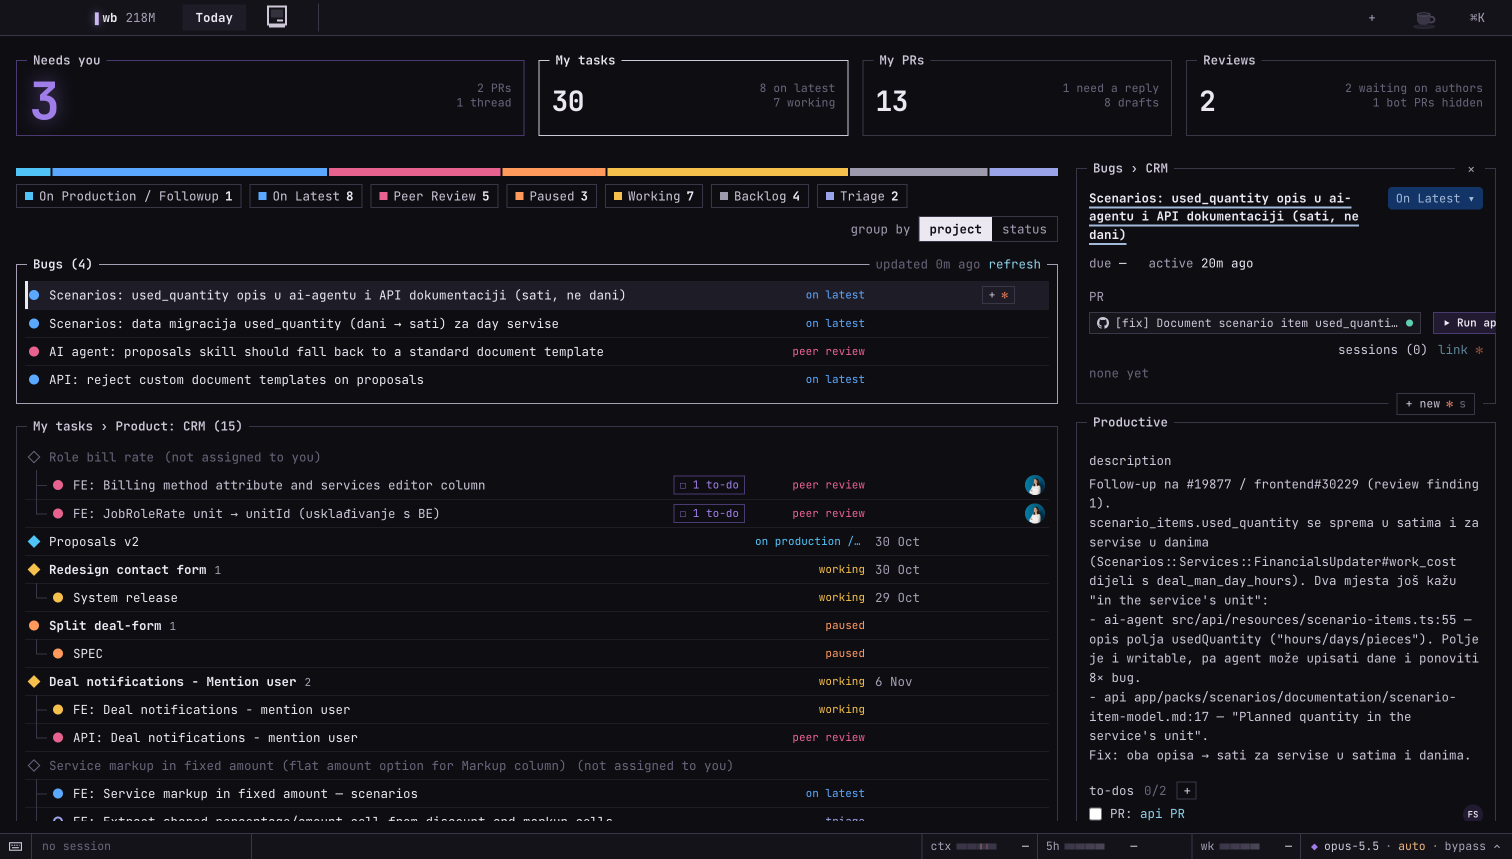
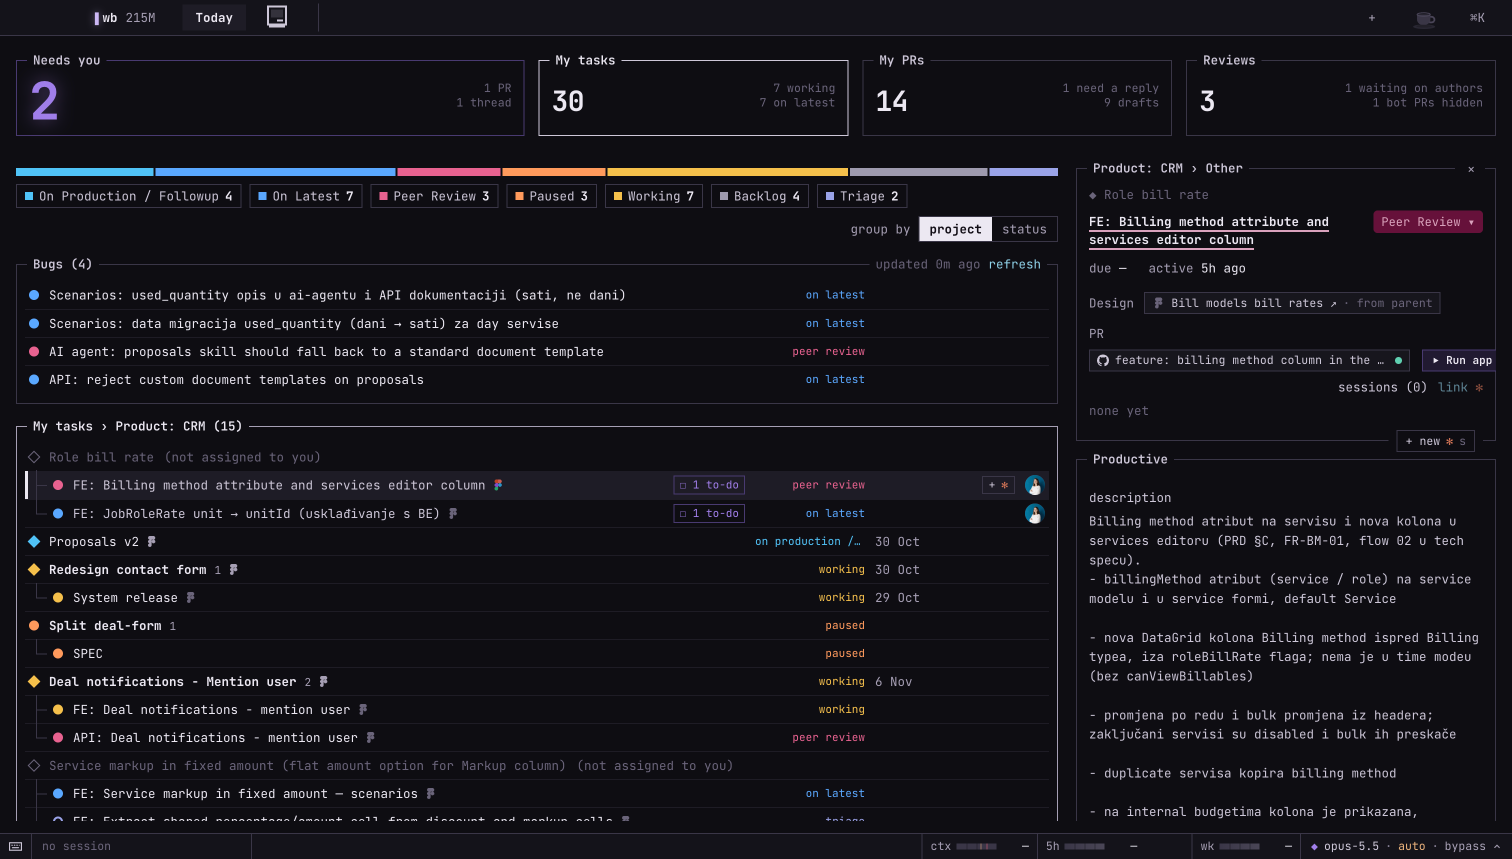
Figma link on tasks: a grey Figma mark after the title (colour on hover and on the selected row; fainter when inherited) from the task's Figma field or description, else the nearest ancestor's. In My tasks, the workstream tree, after the session bar's task button, and a Design row on the task card. 

diff --git a/src/main/productive/tasks.ts b/src/main/productive/tasks.ts
@@ -1,4 +1,4 @@
-import { mentionToken, readMentions, type Person, type Task, type TaskDetail, type WorkflowStatus } from '@shared/tasks'
+import { figmaOf, inheritDesign, mentionToken, readMentions, type Person, type Task, type TaskDetail, type WorkflowStatus } from '@shared/tasks'
 import type { Repo } from '../store/repo'
 import { commentHtml, encodeParams, htmlText, Productive, type JsonApiResource } from './client'
 
@@ -60,7 +60,7 @@ export class TasksPoller {
         const id = t.relationships?.task?.data?.id
         if (id) myTodos.set(id, (myTodos.get(id) ?? 0) + 1)
       }
-      this.tasks = normalize(data, included, account.orgSlug).map((t) => (t.assignedTo && t.assignedTo.id !== account.personId && myTodos.has(t.id) ? { ...t, myTodos: myTodos.get(t.id) } : t))
+      this.tasks = (await this.withDesign(normalize(data, included, account.orgSlug))).map((t) => (t.assignedTo && t.assignedTo.id !== account.personId && myTodos.has(t.id) ? { ...t, myTodos: myTodos.get(t.id) } : t))
       this.fetchedAt = Date.now()
       this.error = null
       this.repo.setSetting('tasks:cache', { tasks: this.tasks, at: this.fetchedAt })
@@ -70,6 +70,35 @@ export class TasksPoller {
       this.loading = false
       this.changed()
     }
+  }
+
+  /** Ancestors read for design links: id → title, parent, own Figma link. Refreshed when older than 10 minutes. */
+  private nodes = new Map<string, { title: string; parentId: string | null; own: string | null; at: number }>()
+
+  /**
+   * Tasks without a Figma link of their own take the nearest ancestor's. Ancestors not among `tasks` (or
+   * included without their own parent, like context headers) are read by id, a level per request.
+   */
+  async withDesign<T extends Task>(tasks: T[]): Promise<T[]> {
+    const fresh = Date.now() - 10 * 60_000
+    const nodes = new Map<string, { title: string; parentId: string | null; own: string | null }>()
+    for (const t of tasks) if (!t.context) nodes.set(t.id, { title: t.title, parentId: t.parentId, own: t.design?.from === null ? t.design.url : null })
+    let want = [...new Set(tasks.filter((t) => !t.design && t.parentId).map((t) => t.parentId!))]
+    for (let level = 0; want.length && level < 6; level++) {
+      const missing = want.filter((id) => !nodes.has(id) && !((this.nodes.get(id)?.at ?? 0) > fresh))
+      if (missing.length) {
+        const { api } = await this.client()
+        for (let i = 0; i < missing.length; i += 100) {
+          const { data } = await api.getAll('/tasks', encodeParams('filter', { id: missing.slice(i, i + 100).join(',') }))
+          for (const t of data)
+            this.nodes.set(t.id, { title: String(t.attributes.title ?? ''), parentId: t.relationships?.parent_task?.data?.id ?? null, own: figmaOf(t.attributes.custom_fields, t.attributes.description), at: Date.now() })
+        }
+      }
+      for (const id of want) if (!nodes.has(id) && this.nodes.has(id)) nodes.set(id, this.nodes.get(id)!)
+      // Climb only from ancestors that have no link themselves.
+      want = [...new Set(want.map((id) => nodes.get(id)).filter((n) => n && !n.own && n.parentId).map((n) => n!.parentId!))]
+    }
+    return inheritDesign(tasks, nodes)
   }
 
   /** The client with the org set, for callers outside the poll (drafts). */
@@ -101,7 +130,7 @@ export class TasksPoller {
       )
     }
     return {
-      task: taskMapper(included, orgSlug)(data, false),
+      task: (await this.withDesign([taskMapper(included, orgSlug)(data, false)]))[0]!,
       description: readMentions(htmlText(String(data.attributes.description ?? ''))).body,
       statusId: status?.id ?? '',
       statuses: (workflowId && this.statuses.get(workflowId)) || [],
@@ -220,6 +249,7 @@ export function taskMapper(included: JsonApiResource[], orgSlug: string): (t: Js
     const list = inc.get(`task_lists:${rel(t, 'task_list')?.id}`)
     const status = inc.get(`workflow_statuses:${rel(t, 'workflow_status')?.id}`)
     const who = inc.get(`people:${rel(t, 'assignee')?.id}`)
+    const figma = figmaOf(t.attributes.custom_fields, t.attributes.description)
     return {
       id: t.id,
       number: attr<number>(t, 'task_number') ?? null,
@@ -240,6 +270,7 @@ export function taskMapper(included: JsonApiResource[], orgSlug: string): (t: Js
       url: `https://app.productive.io/${orgSlug}/tasks/${t.id}`,
       context,
       assignedTo: who ? { id: who.id, name: personName(who), avatarUrl: (who.attributes.avatar_url as string | null) ?? null } : null,
+      design: figma ? { url: figma, from: null } : null,
     }
   }
 }

diff --git a/src/renderer/src/styles.css b/src/renderer/src/styles.css
@@ -82,6 +82,12 @@ button { font: inherit; color: inherit; }
 .local-icon { display: block; flex-shrink: 0; }
 .local-icon .li-off { fill: color-mix(in srgb, var(--text-3) 22%, var(--chrome)); }
 .place-bang { position: absolute; right: -7px; top: -7px; width: 15px; height: 15px; border-radius: 50%; background: var(--bad); color: var(--on-accent); font-size: 10.5px; font-weight: 800; line-height: 15px; text-align: center; box-shadow: 0 0 0 2px var(--chrome); }
+/* Figma mark (FigmaMark.tsx): grey at rest, its own colours on hover and on a selected row. */
+.figma-mark { --fm: var(--text-3); --fm1: var(--fm); --fm2: var(--fm); --fm3: var(--fm); --fm4: var(--fm); --fm5: var(--fm); display: inline-flex; align-items: center; margin-left: 6px; padding: 2px 3px; cursor: pointer; flex-shrink: 0; vertical-align: -1px; }
+.figma-chip .figma-mark, .sbar-figma .figma-mark { margin-left: 0; }
+.figma-mark.inherited { --fm: var(--faint); }
+.figma-mark:hover, .sel .figma-mark, .on .figma-mark { --fm1: #f24e1e; --fm2: #ff7262; --fm3: #a259ff; --fm4: #1abcfe; --fm5: #0acf83; }
+.figma-mark.inherited:hover, .sel .figma-mark.inherited { opacity: 0.75; }
 .place-pile.low { color: var(--warn); border-color: var(--warn); }
 .place-pile { position: absolute; right: -9px; bottom: -5px; min-width: 15px; height: 14px; padding: 0 3px; background: var(--raised); border: 1px solid var(--line-heavy); color: var(--text-3); font-size: 9.5px; line-height: 12px; text-align: center; }
 .place-bang-tip { display: none; position: absolute; left: 0; top: 22px; z-index: 50; width: 300px; padding: 10px 12px; background: var(--popover); border: 1px solid var(--line-heavy); box-shadow: 0 18px 44px var(--shadow); color: var(--text-2); font-size: 12px; font-weight: 400; line-height: 1.55; text-align: left; white-space: normal; }
@@ -1222,6 +1228,10 @@ button.run-chip { cursor: pointer; font: inherit; font-size: 12px; }
 /* Task peek: the PR row with the sessions header across from it; + new ✻ and ⏎ continue sit on the box's bottom edge. */
 .peek-links { display: flex; flex-wrap: wrap; align-items: center; gap: 6px 10px; margin-top: 10px; color: var(--text-2); }
 .peek-links .k { color: var(--text-3); }
+.peek-design + .peek-links { margin-top: 6px; }
+.figma-chip { max-width: 100%; overflow: hidden; white-space: nowrap; text-overflow: ellipsis; color: var(--text-2); }
+.figma-chip:hover .figma-mark { --fm1: #f24e1e; --fm2: #ff7262; --fm3: #a259ff; --fm4: #1abcfe; --fm5: #0acf83; }
+.sbar-figma { display: inline-flex; align-items: center; margin-left: -4px; }
 .peek-links .peek-pr { gap: 6px; min-width: 0; max-width: 100%; }
 .peek-sess-head { margin-left: auto; display: flex; align-items: center; gap: 10px; white-space: nowrap; }
 .peek.has-edge { padding-bottom: 20px; margin-bottom: 12px; }

diff --git a/src/shared/tasks.ts b/src/shared/tasks.ts
@@ -24,6 +24,50 @@ export interface Task {
   assignedTo?: { id: string; name: string; avatarUrl: string | null } | null
   /** Open to-dos assigned to me on a task assigned to someone else: why it's in my list. */
   myTodos?: number
+  /** Its Figma design: its own link, or the nearest ancestor's (`from` names that ancestor). */
+  design?: Design | null
+}
+
+export interface Design {
+  url: string
+  /** The ancestor's title when inherited; null when the task has its own. */
+  from: string | null
+}
+
+const FIGMA_URL = /https:\/\/(?:www\.)?figma\.com\/(?:design|file|proto|board)\/[^\s"'<>)\]]+/
+
+/** A task's own Figma link: a custom field holding one (Productive's Figma field), else the first in its description. */
+export function figmaOf(customFields: unknown, description: unknown): string | null {
+  const values = customFields && typeof customFields === 'object' ? Object.values(customFields as Record<string, unknown>) : []
+  for (const v of [...values, description]) {
+    const m = typeof v === 'string' ? FIGMA_URL.exec(v.replaceAll('&amp;', '&')) : null
+    if (m) return m[0]
+  }
+  return null
+}
+
+/** The file's name from a Figma URL: `…/design/<key>/Contacts?node-id=…` → "Contacts". */
+export function figmaName(url: string): string {
+  const seg = /figma\.com\/[a-z]+\/[^/]+\/([^/?#]+)/.exec(url)?.[1]
+  return seg ? decodeURIComponent(seg).replaceAll('-', ' ') : 'Figma'
+}
+
+/**
+ * Fills `design` from the nearest ancestor that has one. `nodes` covers the tasks and every ancestor
+ * known (id → title, parent, own link); a task's own link always wins.
+ */
+export function inheritDesign<T extends Pick<Task, 'id' | 'parentId' | 'design'>>(tasks: T[], nodes: Map<string, { title: string; parentId: string | null; own: string | null }>): T[] {
+  return tasks.map((t) => {
+    if (t.design) return t
+    let id = nodes.get(t.id)?.parentId ?? t.parentId
+    for (let depth = 0; id && depth < 8; depth++) {
+      const n = nodes.get(id)
+      if (!n) break
+      if (n.own) return { ...t, design: { url: n.own, from: n.title } }
+      id = n.parentId
+    }
+    return t
+  })
 }
 
 export interface TaskLink {

diff --git a/src/shared/tasks.test.ts b/src/shared/tasks.test.ts
@@ -1,5 +1,5 @@
 import { describe, expect, it } from 'vitest'
-import { groupByStatus, groupTasks, mentionToken, readMentions, statusCounts, taskIdsFromName, taskIdsFromText, treeShapes, idsInPrompt, type Task } from './tasks'
+import { figmaName, figmaOf, groupByStatus, groupTasks, inheritDesign, mentionToken, readMentions, statusCounts, taskIdsFromName, taskIdsFromText, treeShapes, idsInPrompt, type Task } from './tasks'
 
 let n = 0
 const task = (p: Partial<Task>): Task => ({
@@ -132,5 +132,36 @@ describe('idsInPrompt', () => {
     expect(idsInPrompt('check 12014975, the copy is off; also 21129723.')).toEqual(['12014975', '21129723'])
     expect(idsInPrompt('see https://app.productive.io/109-productive/tasks/12014975 and fe #30301')).toEqual([])
     expect(idsInPrompt('worktrees/frontend-21071362-markup and v1.20240101 and 123456')).toEqual([])
+  })
+})
+
+describe('design links', () => {
+  const url = 'https://www.figma.com/design/F2S5lsOHjITdNFZoVp7I70/Contacts?node-id=4472-86167&t=x-1'
+
+  it('reads a Figma custom field first, then the description', () => {
+    expect(figmaOf({ '1120': 'https://review.example.com', '3855': url }, 'see https://www.figma.com/design/k/Other')).toBe(url)
+    expect(figmaOf({}, `<p><a href="${url.replace('&', '&amp;')}">design</a></p>`)).toBe(url)
+    expect(figmaOf(null, 'no link')).toBeNull()
+  })
+
+  it('names the file', () => {
+    expect(figmaName(url)).toBe('Contacts')
+    expect(figmaName('https://www.figma.com/design/k/Deal-View%20v2?node-id=1')).toBe('Deal View v2')
+  })
+
+  it('inherits from the nearest ancestor with a link; own links win', () => {
+    const nodes = new Map([
+      ['1', { title: 'Feature', parentId: null, own: url }],
+      ['2', { title: 'Phase', parentId: '1', own: null }],
+    ])
+    const out = inheritDesign(
+      [
+        { id: '3', parentId: '2', design: null },
+        { id: '4', parentId: '2', design: { url: 'mine', from: null } },
+        { id: '5', parentId: null, design: null },
+      ],
+      nodes,
+    )
+    expect(out.map((t) => t.design)).toEqual([{ url, from: 'Feature' }, { url: 'mine', from: null }, null])
   })
 })

diff --git a/src/renderer/src/components/FigmaMark.tsx b/src/renderer/src/components/FigmaMark.tsx
@@ -1,0 +1,35 @@
+import type { MouseEvent } from 'react'
+import { figmaName, type Design } from '@shared/tasks'
+
+/**
+ * The Figma mark for a task's design link: grey at rest, its own colours on hover and on a selected row,
+ * fainter when inherited from a parent. Click opens Figma; ⌘-click copies the link.
+ */
+export function FigmaMark({ design, size = 11 }: { design: Design; size?: number }) {
+  const name = figmaName(design.url)
+  const click = (e: MouseEvent) => {
+    e.stopPropagation()
+    e.preventDefault()
+    if (e.metaKey) void navigator.clipboard.writeText(design.url)
+    else void window.workbench.openFigma(design.url)
+  }
+  return (
+    <span
+      role="link"
+      tabIndex={-1}
+      className={`figma-mark${design.from ? ' inherited' : ''}`}
+      title={`Figma · ${name}${design.from ? `\nfrom parent: ${design.from}` : ''}\nclick opens Figma · ⌘-click copies the link`}
+      aria-label={`Figma: ${name}`}
+      onClick={click}
+      onDoubleClick={(e) => e.stopPropagation()}
+    >
+      <svg width={(size * 38) / 57} height={size} viewBox="0 0 38 57" aria-hidden="true">
+        <path style={{ fill: 'var(--fm1)' }} d="M0 9.5A9.5 9.5 0 0 0 9.5 19H19V0H9.5A9.5 9.5 0 0 0 0 9.5z" />
+        <path style={{ fill: 'var(--fm2)' }} d="M19 0v19h9.5a9.5 9.5 0 1 0 0-19H19z" />
+        <path style={{ fill: 'var(--fm3)' }} d="M0 28.5A9.5 9.5 0 0 0 9.5 38H19V19H9.5A9.5 9.5 0 0 0 0 28.5z" />
+        <path style={{ fill: 'var(--fm4)' }} d="M19 28.5a9.5 9.5 0 1 1 19 0 9.5 9.5 0 0 1-19 0z" />
+        <path style={{ fill: 'var(--fm5)' }} d="M0 47.5A9.5 9.5 0 0 1 9.5 38H19v9.5a9.5 9.5 0 1 1-19 0z" />
+      </svg>
+    </span>
+  )
+}

diff --git a/src/renderer/src/components/TaskPreview.tsx b/src/renderer/src/components/TaskPreview.tsx
@@ -1,6 +1,7 @@
 import { useState } from 'react'
+import { FigmaMark } from './FigmaMark'
 import { isLive, MARK_WORD, markOf, taskPrs, taskSessions, type LinkedSession } from '@shared/links'
-import { statusColors, type Task, type TasksSnapshot } from '@shared/tasks'
+import { figmaName, statusColors, type Task, type TasksSnapshot } from '@shared/tasks'
 import type { Session } from '@shared/types'
 import { openWorkstream, useStore, type View } from '../store'
 import { Box } from './Box'
@@ -107,6 +108,19 @@ export function TaskPreview({ task, snapshot, onClose, onUnlink }: { task: Task;
         </span>
       </div>
 
+      {task.design && (
+        <div className="peek-links peek-design">
+          <span className="k">Design</span>
+          <button
+            className="chip figma-chip"
+            title={`${task.design.url}\nclick opens Figma · ⌘-click copies the link`}
+            onClick={(e) => (e.metaKey ? void navigator.clipboard.writeText(task.design!.url) : void window.workbench.openFigma(task.design!.url))}
+          >
+            <FigmaMark design={task.design} />
+            {figmaName(task.design.url)} ↗{task.design.from && <span className="faint" title={task.design.from}> · from parent</span>}
+          </button>
+        </div>
+      )}
       <div className="peek-links">
         <span className="k">PR</span>
         {prs.length === 0 && <span className="faint">none</span>}

diff --git a/src/renderer/src/components/TodayView.tsx b/src/renderer/src/components/TodayView.tsx
@@ -1,4 +1,5 @@
 import { memo, useEffect, useMemo, useRef, useState, type CSSProperties } from 'react'
+import { FigmaMark } from './FigmaMark'
 import { MARK_WORD, taskSessions, type LinkedSession } from '@shared/links'
 import { FE_REPO, runTarget } from '@shared/runpr'
 import { groupByStatus, groupTasks, statusCounts, statusVivid, treeShapes, type StatusCount, type Task, type TasksSnapshot } from '@shared/tasks'
@@ -575,6 +576,7 @@ function Home({
                     <span className="task-name">
                       {t.title}
                       {shape.kids > 0 && <span className="task-kids">{shape.kids}</span>}
+                      {t.design && <FigmaMark design={t.design} />}
                       {parent && <span className="faint">{`  ${parent.milestone ? '◆' : '◇'} ${parent.title}`}</span>}
                     </span>
                     {!!t.myTodos && <span className="task-todos">☐ {t.myTodos === 1 ? '1 to-do' : `${t.myTodos} to-dos`}</span>}

diff --git a/src/renderer/src/components/WorkstreamView.tsx b/src/renderer/src/components/WorkstreamView.tsx
@@ -1,4 +1,5 @@
 import { useEffect, useMemo, useRef, useState } from 'react'
+import { FigmaMark } from './FigmaMark'
 import type { TaskLink } from '@shared/tasks'
 import type { Session } from '@shared/types'
 import type { TimelineItem, Workstream, WsLink, WsPr, WsTask } from '@shared/workstream'
@@ -373,6 +374,7 @@ function Structure({ ws, sessionsOf, prsOf, live, onTask }: { ws: Workstream | n
                 <StatusGlyph task={t} size={13} />
                 {t.milestone && <Diamond />}
                 <span className={`ws-node-title${t.depth === 0 ? ' root' : ''}`}>{t.title}</span>
+                {t.design && <FigmaMark design={t.design} />}
                 <span className="ws-who" title={t.mine ? 'Assigned to you' : t.assignee ? `Assigned to ${t.assignee}` : 'Unassigned'}>
                   <Avatar name={t.assignee} url={t.assigneeAvatar} mine={t.mine} />
                 </span>

diff --git a/src/renderer/src/components/TaskSide.tsx b/src/renderer/src/components/TaskSide.tsx
@@ -1,4 +1,5 @@
 import { useEffect, useRef, useState, type CSSProperties } from 'react'
+import { FigmaMark } from './FigmaMark'
 import type { Ci } from '@shared/git'
 import { sessionPrs, sessionTaskIds } from '@shared/links'
 import { statusVivid, type TasksSnapshot } from '@shared/tasks'
@@ -75,6 +76,11 @@ export function SessionBar({ session }: { session: Session }) {
         )}
         <span className="faint">⌘I</span>
       </button>
+      {task?.design && (
+        <span className="sbar-figma">
+          <FigmaMark design={task.design} size={12} />
+        </span>
+      )}
       {shown.length > 0 && (
         <>
           <span className="sbar-gh">

diff --git a/src/main/index.ts b/src/main/index.ts
@@ -715,6 +715,11 @@ void app.whenReady().then(() => {
     })
     if (res.response === 0) await cleanup.remove([path], true)
   })
+  ipcMain.handle('figma:open', (_e, url: string) => {
+    // The desktop app when it's installed; it takes figma.com URLs.
+    if (/^https:\/\/(www\.)?figma\.com\//.test(url) && existsSync('/Applications/Figma.app')) execFile('open', ['-a', 'Figma', url])
+    else void shell.openExternal(url)
+  })
   ipcMain.handle('editor:open', async (_e, path: string) => {
     const env = await shellEnv()
     const code = which('code', env)

diff --git a/src/shared/types.ts b/src/shared/types.ts
@@ -312,6 +312,8 @@ export interface WorkbenchApi {
     startInfra(name: string): Promise<void>
     refreshInfra(): Promise<void>
   }
+  /** A figma.com link in the Figma app when installed, else the browser. */
+  openFigma(url: string): Promise<void>
   /** Local › Worktrees: classify the .wtrc worktrees and remove the done ones. Removals confirm natively first. */
   cleanup: {
     snapshot(): Promise<CleanupSnapshot>

diff --git a/src/preload/index.ts b/src/preload/index.ts
@@ -136,6 +136,7 @@ const api: WorkbenchApi = {
     startInfra: (name) => ipcRenderer.invoke('local:infra-start', name),
     refreshInfra: () => ipcRenderer.invoke('local:infra-refresh'),
   },
+  openFigma: (url) => ipcRenderer.invoke('figma:open', url),
   cleanup: {
     snapshot: () => ipcRenderer.invoke('cleanup:snapshot'),
     onChanged: (cb) => on('cleanup:changed', (_e, s: CleanupSnapshot) => cb(s)),
